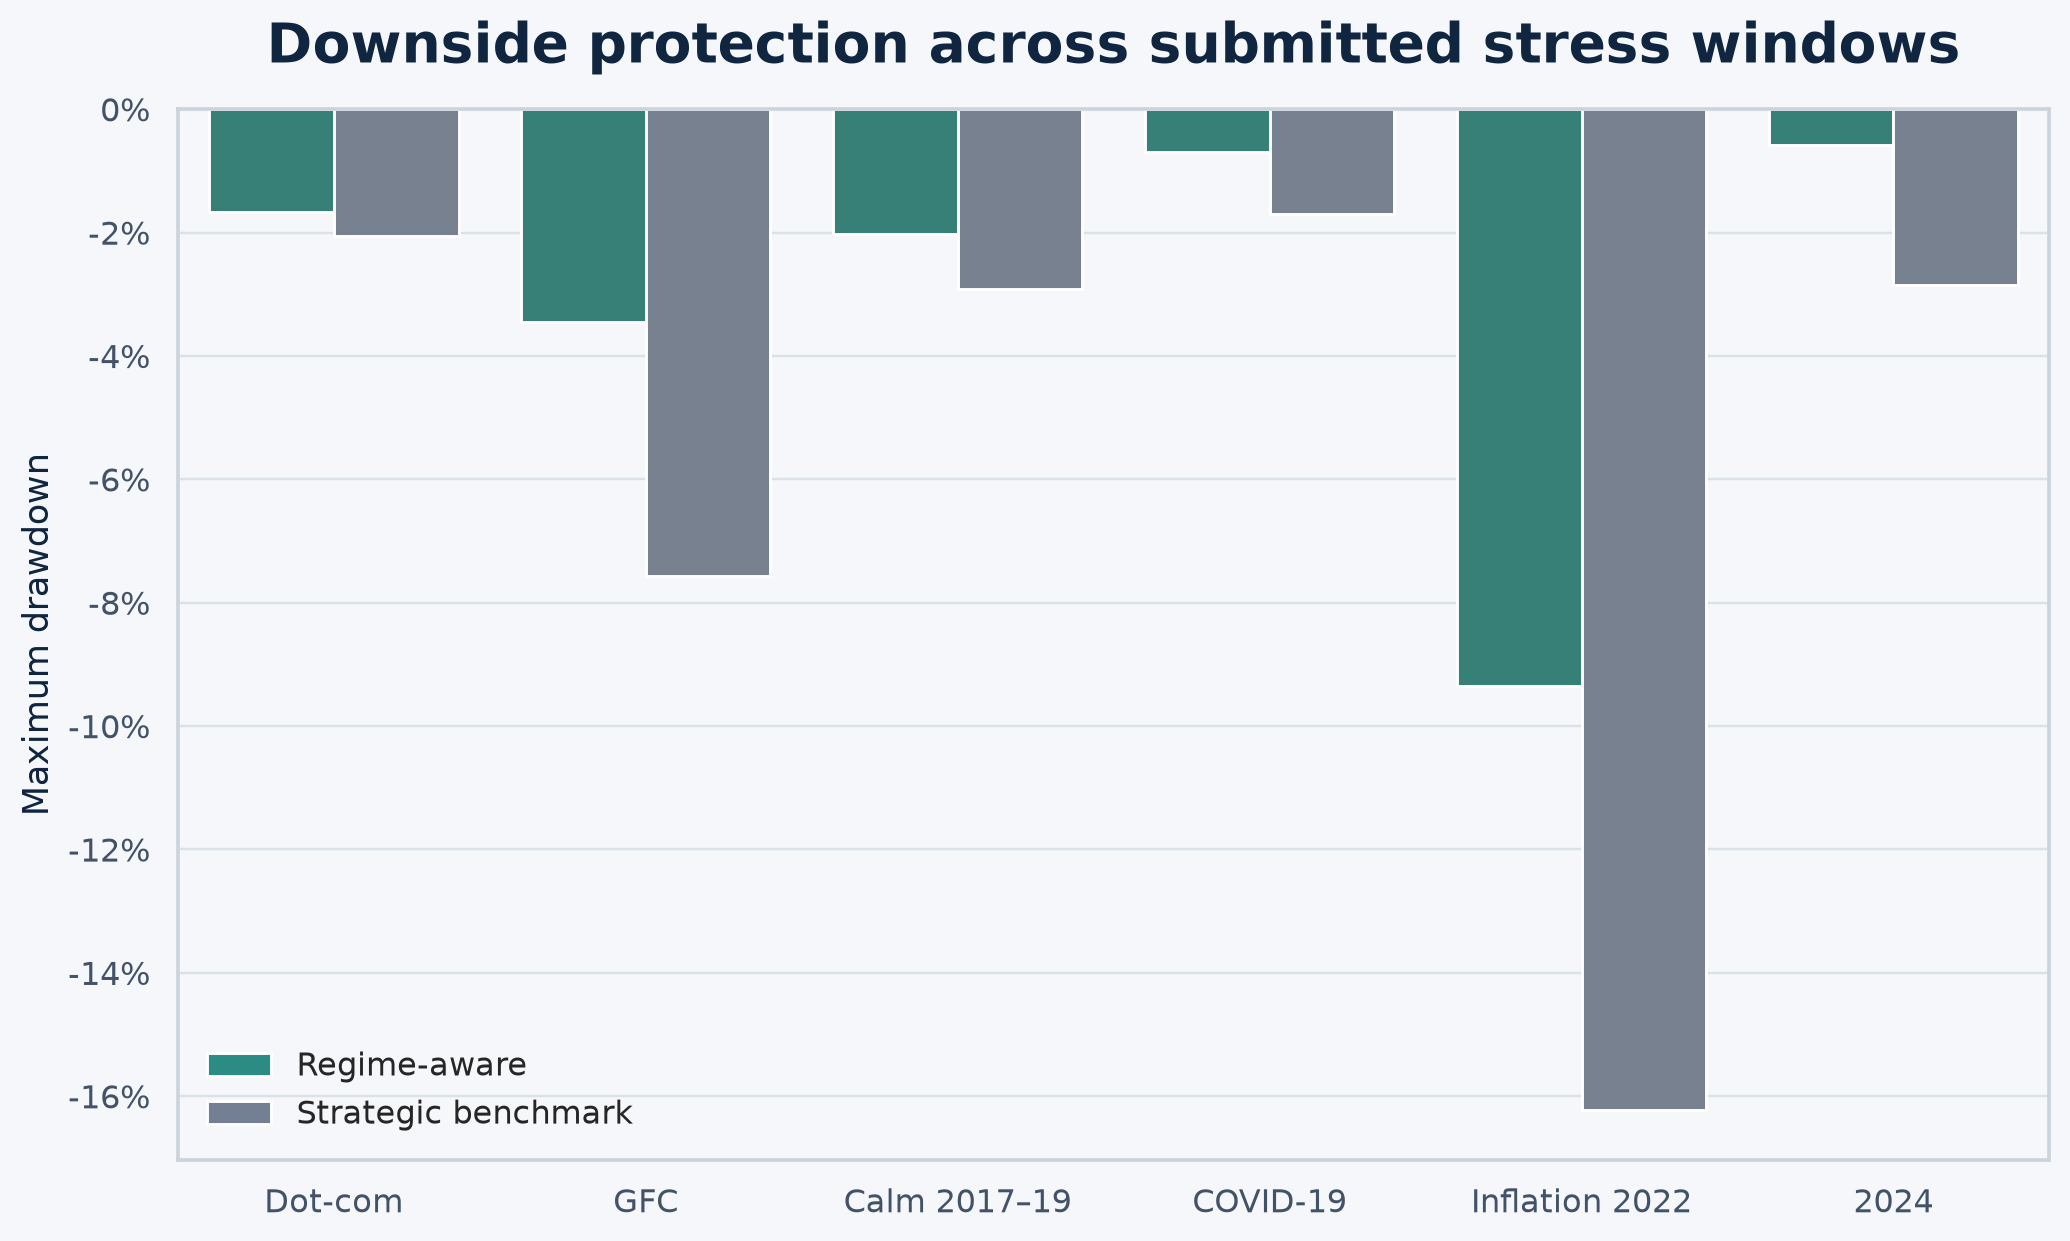
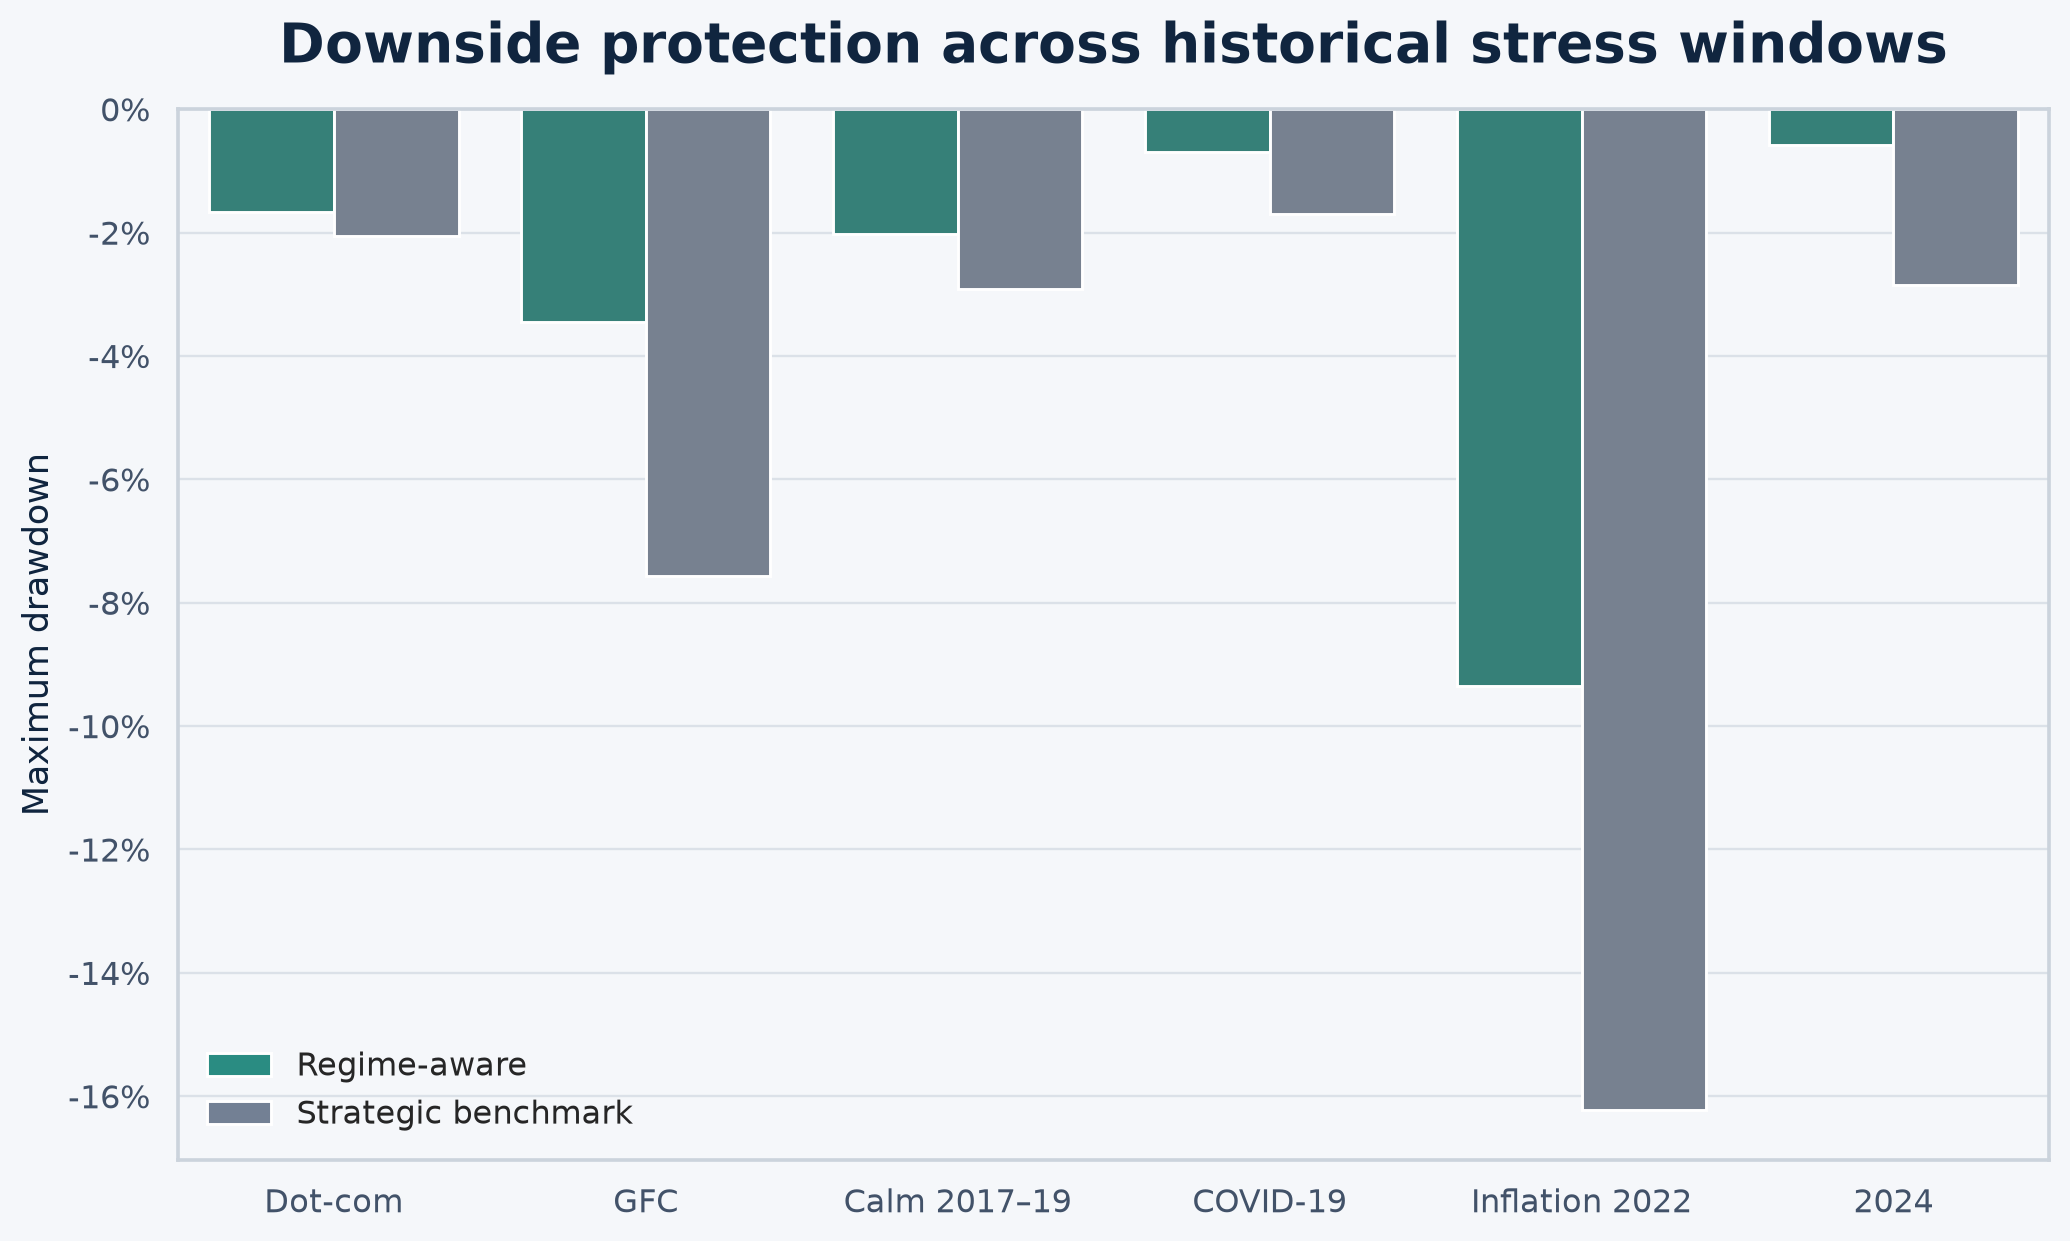
website update

Changed region(s): [[0.1237, 0.0, 0.9585, 0.0612]]

diff --git a/docs/index.html b/docs/index.html
@@ -59,7 +59,7 @@
             <h3>Primary mandate</h3>
             <p>
               The framework was designed to reduce downside risk relative to a static strategic
-              allocation. In the submitted backtest, maximum drawdown was −10.1%, compared with
+              allocation. In the full-period backtest, maximum drawdown was −10.1%, compared with
               −16.2% for the strategic benchmark.
             </p>
           </div>
@@ -67,25 +67,18 @@
             <h3>Secondary mandate</h3>
             <p>
               The strategy sought positive risk-adjusted returns through interpretable regime
-              signals and explicit risk controls. The submitted return-to-volatility ratio was
+              signals and explicit risk controls. The full-period return-to-volatility ratio was
               1.89 versus 1.07 for the benchmark.
             </p>
           </div>
         </div>
 
-        <div class="summary-metrics" aria-label="Submitted headline results">
+        <div class="summary-metrics" aria-label="Full-period headline results">
           <div><span>Annualised return</span><strong>5.89%</strong><small>Benchmark 5.18%</small></div>
           <div><span>Annualised volatility</span><strong>3.11%</strong><small>Benchmark 4.85%</small></div>
           <div><span>Maximum drawdown</span><strong>−10.1%</strong><small>Benchmark −16.2%</small></div>
           <div><span>Return / volatility</span><strong>1.89</strong><small>Benchmark 1.07</small></div>
         </div>
-
-        <aside class="method-note">
-          <strong>Interpretation note.</strong> The notebook labels return divided by volatility as
-          “Sharpe Ratio”; the page uses the more precise term “return / volatility.” A separate
-          implementation audit below applies a one-month signal lag, a common asset-history window,
-          and an illustrative trading cost.
-        </aside>
 
         <h3 class="subsection-heading">Data coverage</h3>
         <dl class="coverage-grid">
@@ -190,11 +183,11 @@
       <section class="report-section page-width" id="results">
         <div class="section-title">
           <span>03</span>
-          <div><p class="kicker">Backtest results</p><h2>Submitted performance and implementation audit</h2></div>
+          <div><p class="kicker">Backtest results</p><h2>Full-period performance and implementation audit</h2></div>
         </div>
 
         <div class="table-block first-block">
-          <h3>Full-period submitted results</h3>
+          <h3>Full-period results</h3>
           <div class="table-scroll" role="region" aria-label="Full-period performance results" tabindex="0">
             <table>
               <thead><tr><th>Metric</th><th>Regime-aware</th><th>Strategic allocation</th><th>Difference</th></tr></thead>
@@ -225,7 +218,7 @@
         <figure class="report-figure full-width">
           <img
             src="assets/charts/performance-and-drawdown-common-sample.png"
-            alt="Portfolio growth and drawdown comparison between the submitted implementation, a lagged cost scenario, and the strategic benchmark"
+            alt="Portfolio growth and drawdown comparison between the backtest implementation, a lagged cost scenario, and the strategic benchmark"
             loading="lazy"
           />
         </figure>
